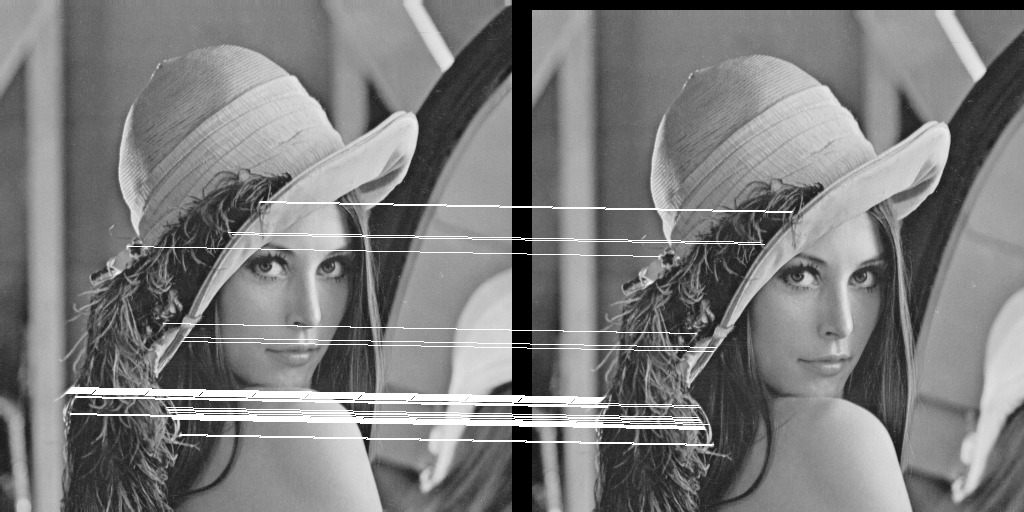
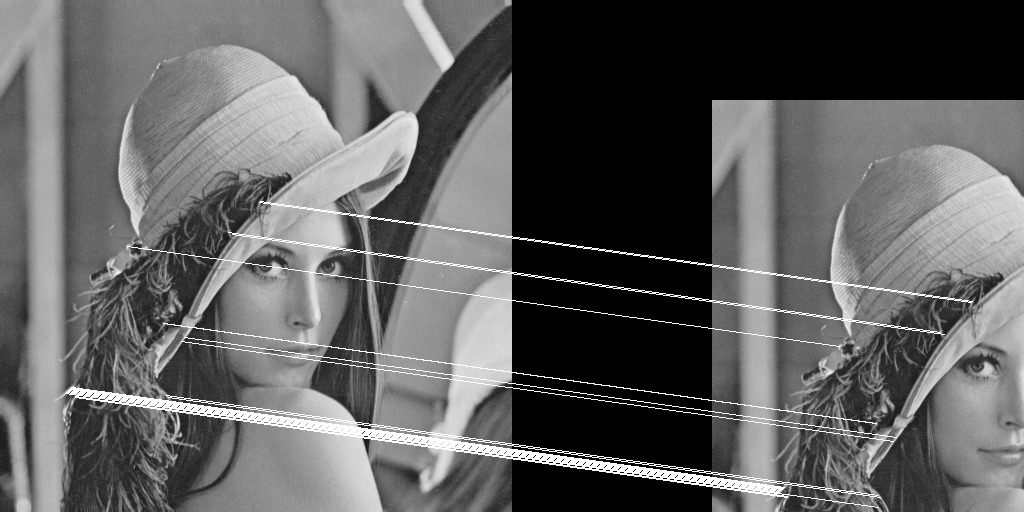
build based on 6f6cb39

diff --git a/latest/function_reference/index.html b/latest/function_reference/index.html
@@ -356,14 +356,14 @@
 </code></pre>
 
 <p>The <code>Keypoint</code> type.</p>
-<p><a target='_blank' href='https://github.com/JuliaImages/ImageFeatures.jl/tree/ef86fc974dd8655bf205d699489c966c3fb40817/src/core.jl#L4-L10' class='documenter-source'>source</a><br></p>
+<p><a target='_blank' href='https://github.com/JuliaImages/ImageFeatures.jl/tree/6f6cb39d8f4dfcb00be1138cbbf96417dc1bd169/src/core.jl#L4-L10' class='documenter-source'>source</a><br></p>
 <p><a id='ImageFeatures.Keypoints' href='#ImageFeatures.Keypoints'>#</a>
 <strong><code>ImageFeatures.Keypoints</code></strong> &mdash; <em>Type</em>.</p>
 <pre><code>keypoints = Keypoints(boolean_img)
 </code></pre>
 
 <p>Creates a <code>Vector{Keypoint}</code> of the true values in the <code>boolean_img</code>.</p>
-<p><a target='_blank' href='https://github.com/JuliaImages/ImageFeatures.jl/tree/ef86fc974dd8655bf205d699489c966c3fb40817/src/core.jl#L13-L19' class='documenter-source'>source</a><br></p>
+<p><a target='_blank' href='https://github.com/JuliaImages/ImageFeatures.jl/tree/6f6cb39d8f4dfcb00be1138cbbf96417dc1bd169/src/core.jl#L13-L19' class='documenter-source'>source</a><br></p>
 <p><a id='ImageFeatures.BRIEF' href='#ImageFeatures.BRIEF'>#</a>
 <strong><code>ImageFeatures.BRIEF</code></strong> &mdash; <em>Type</em>.</p>
 <pre><code>brief_params = BRIEF([size = 128], [window = 9], [sigma = 2 ^ 0.5], [sampling_type = gaussian], [seed = 123])
@@ -405,7 +405,7 @@
 </tr>
 </tbody>
 </table>
-<p><a target='_blank' href='https://github.com/JuliaImages/ImageFeatures.jl/tree/ef86fc974dd8655bf205d699489c966c3fb40817/src/brief.jl#L1-L14' class='documenter-source'>source</a><br></p>
+<p><a target='_blank' href='https://github.com/JuliaImages/ImageFeatures.jl/tree/6f6cb39d8f4dfcb00be1138cbbf96417dc1bd169/src/brief.jl#L1-L14' class='documenter-source'>source</a><br></p>
 <p><a id='ImageFeatures.ORB' href='#ImageFeatures.ORB'>#</a>
 <strong><code>ImageFeatures.ORB</code></strong> &mdash; <em>Type</em>.</p>
 <pre><code>orb_params = ORB([num_keypoints = 500], [n_fast = 12], [threshold = 0.25], [harris_factor = 0.04], [downsample = 1.3], [levels = 8], [sigma = 1.2])
@@ -457,7 +457,7 @@
 </tr>
 </tbody>
 </table>
-<p><a target='_blank' href='https://github.com/JuliaImages/ImageFeatures.jl/tree/ef86fc974dd8655bf205d699489c966c3fb40817/src/orb.jl#L1-L15' class='documenter-source'>source</a><br></p>
+<p><a target='_blank' href='https://github.com/JuliaImages/ImageFeatures.jl/tree/6f6cb39d8f4dfcb00be1138cbbf96417dc1bd169/src/orb.jl#L1-L15' class='documenter-source'>source</a><br></p>
 <p><a id='ImageFeatures.FREAK' href='#ImageFeatures.FREAK'>#</a>
 <strong><code>ImageFeatures.FREAK</code></strong> &mdash; <em>Type</em>.</p>
 <pre><code>freak_params = FREAK([pattern_scale = 22.0])
@@ -479,7 +479,7 @@
 </tr>
 </tbody>
 </table>
-<p><a target='_blank' href='https://github.com/JuliaImages/ImageFeatures.jl/tree/ef86fc974dd8655bf205d699489c966c3fb40817/src/freak.jl#L1-L9' class='documenter-source'>source</a><br></p>
+<p><a target='_blank' href='https://github.com/JuliaImages/ImageFeatures.jl/tree/6f6cb39d8f4dfcb00be1138cbbf96417dc1bd169/src/freak.jl#L1-L9' class='documenter-source'>source</a><br></p>
 <p><a id='Corners-1'></a></p>
 <h2 id="corners">Corners</h2>
 <p><a id='ImageFeatures.corner_orientations' href='#ImageFeatures.corner_orientations'>#</a>
@@ -494,7 +494,7 @@ orientations = corner_orientations(img, corners, kernel)
 </code></pre>
 
 <p>The kernel used for the patch can be given through the <code>kernel</code> argument. The default kernel used is a gaussian kernel of size <code>5x5</code>.</p>
-<p><a target='_blank' href='https://github.com/JuliaImages/ImageFeatures.jl/tree/ef86fc974dd8655bf205d699489c966c3fb40817/src/corner.jl#L1-L15' class='documenter-source'>source</a><br></p>
+<p><a target='_blank' href='https://github.com/JuliaImages/ImageFeatures.jl/tree/6f6cb39d8f4dfcb00be1138cbbf96417dc1bd169/src/corner.jl#L1-L15' class='documenter-source'>source</a><br></p>
 <p><a id='BRIEF-Sampling-Patterns-1'></a></p>
 <h2 id="brief-sampling-patterns">BRIEF Sampling Patterns</h2>
 <p><a id='ImageFeatures.random_uniform' href='#ImageFeatures.random_uniform'>#</a>
@@ -503,35 +503,35 @@ orientations = corner_orientations(img, corners, kernel)
 </code></pre>
 
 <p>Builds sampling pairs using random uniform sampling.</p>
-<p><a target='_blank' href='https://github.com/JuliaImages/ImageFeatures.jl/tree/ef86fc974dd8655bf205d699489c966c3fb40817/src/brief.jl#L27-L33' class='documenter-source'>source</a><br></p>
+<p><a target='_blank' href='https://github.com/JuliaImages/ImageFeatures.jl/tree/6f6cb39d8f4dfcb00be1138cbbf96417dc1bd169/src/brief.jl#L27-L33' class='documenter-source'>source</a><br></p>
 <p><a id='ImageFeatures.random_coarse' href='#ImageFeatures.random_coarse'>#</a>
 <strong><code>ImageFeatures.random_coarse</code></strong> &mdash; <em>Function</em>.</p>
 <pre><code>sample_one, sample_two = random_coarse(size, window, seed)
 </code></pre>
 
 <p>Builds sampling pairs using random sampling over a coarse grid.</p>
-<p><a target='_blank' href='https://github.com/JuliaImages/ImageFeatures.jl/tree/ef86fc974dd8655bf205d699489c966c3fb40817/src/brief.jl#L54-L60' class='documenter-source'>source</a><br></p>
+<p><a target='_blank' href='https://github.com/JuliaImages/ImageFeatures.jl/tree/6f6cb39d8f4dfcb00be1138cbbf96417dc1bd169/src/brief.jl#L54-L60' class='documenter-source'>source</a><br></p>
 <p><a id='ImageFeatures.gaussian' href='#ImageFeatures.gaussian'>#</a>
 <strong><code>ImageFeatures.gaussian</code></strong> &mdash; <em>Function</em>.</p>
 <pre><code>sample_one, sample_two = gaussian(size, window, seed)
 </code></pre>
 
 <p>Builds sampling pairs using gaussian sampling.</p>
-<p><a target='_blank' href='https://github.com/JuliaImages/ImageFeatures.jl/tree/ef86fc974dd8655bf205d699489c966c3fb40817/src/brief.jl#L73-L79' class='documenter-source'>source</a><br></p>
+<p><a target='_blank' href='https://github.com/JuliaImages/ImageFeatures.jl/tree/6f6cb39d8f4dfcb00be1138cbbf96417dc1bd169/src/brief.jl#L73-L79' class='documenter-source'>source</a><br></p>
 <p><a id='ImageFeatures.gaussian_local' href='#ImageFeatures.gaussian_local'>#</a>
 <strong><code>ImageFeatures.gaussian_local</code></strong> &mdash; <em>Function</em>.</p>
 <pre><code>sample_one, sample_two = gaussian_local(size, window, seed)
 </code></pre>
 
 <p>Pairs <code>(Xi, Yi)</code> are randomly sampled using a Gaussian distribution where first <code>X</code> is sampled with a standard deviation of <code>0.04*S^2</code> and  then the <code>Yi’s</code> are sampled using a Gaussian distribution – Each <code>Yi</code> is sampled with mean <code>Xi</code> and standard deviation of <code>0.01 * S^2</code></p>
-<p><a target='_blank' href='https://github.com/JuliaImages/ImageFeatures.jl/tree/ef86fc974dd8655bf205d699489c966c3fb40817/src/brief.jl#L99-L106' class='documenter-source'>source</a><br></p>
+<p><a target='_blank' href='https://github.com/JuliaImages/ImageFeatures.jl/tree/6f6cb39d8f4dfcb00be1138cbbf96417dc1bd169/src/brief.jl#L99-L106' class='documenter-source'>source</a><br></p>
 <p><a id='ImageFeatures.centered' href='#ImageFeatures.centered'>#</a>
 <strong><code>ImageFeatures.centered</code></strong> &mdash; <em>Function</em>.</p>
 <pre><code>sample_one, sample_two = centered(size, window, seed)
 </code></pre>
 
 <p>Builds sampling pairs <code>(Xi, Yi)</code> where <code>Xi</code> is <code>(0, 0)</code> and <code>Yi</code> is sampled uniformly from the window.</p>
-<p><a target='_blank' href='https://github.com/JuliaImages/ImageFeatures.jl/tree/ef86fc974dd8655bf205d699489c966c3fb40817/src/brief.jl#L128-L134' class='documenter-source'>source</a><br></p>
+<p><a target='_blank' href='https://github.com/JuliaImages/ImageFeatures.jl/tree/6f6cb39d8f4dfcb00be1138cbbf96417dc1bd169/src/brief.jl#L128-L134' class='documenter-source'>source</a><br></p>
 <p><a id='Feature-Extraction-1'></a></p>
 <h2 id="feature-extraction">Feature Extraction</h2>
 <p><a id='Feature-Description-1'></a></p>
@@ -547,14 +547,14 @@ orientations = corner_orientations(img, corners, kernel)
 </code></pre>
 
 <p>Calculates the hamming distance between two descriptors.</p>
-<p><a target='_blank' href='https://github.com/JuliaImages/ImageFeatures.jl/tree/ef86fc974dd8655bf205d699489c966c3fb40817/src/core.jl#L27-L33' class='documenter-source'>source</a><br></p>
+<p><a target='_blank' href='https://github.com/JuliaImages/ImageFeatures.jl/tree/6f6cb39d8f4dfcb00be1138cbbf96417dc1bd169/src/core.jl#L27-L33' class='documenter-source'>source</a><br></p>
 <p><a id='ImageFeatures.match_keypoints' href='#ImageFeatures.match_keypoints'>#</a>
 <strong><code>ImageFeatures.match_keypoints</code></strong> &mdash; <em>Function</em>.</p>
 <pre><code>matches = match_keypoints(keypoints_1, keypoints_2, desc_1, desc_2, threshold = 0.1)
 </code></pre>
 
 <p>Finds matched keypoints using the <a href="./#ImageFeatures.hamming_distance"><code>hamming_distance</code></a> function having distance value less than <code>threshold</code>.</p>
-<p><a target='_blank' href='https://github.com/JuliaImages/ImageFeatures.jl/tree/ef86fc974dd8655bf205d699489c966c3fb40817/src/core.jl#L36-L42' class='documenter-source'>source</a><br></p>
+<p><a target='_blank' href='https://github.com/JuliaImages/ImageFeatures.jl/tree/6f6cb39d8f4dfcb00be1138cbbf96417dc1bd169/src/core.jl#L36-L42' class='documenter-source'>source</a><br></p>
 <p><a id='Texture-Matching-1'></a></p>
 <h1 id="texture-matching">Texture Matching</h1>
 <p><a id='Gray-Level-Co-occurence-Matrix-1'></a></p>

diff --git a/latest/tutorials/brief/index.html b/latest/tutorials/brief/index.html
@@ -333,7 +333,7 @@
 <p>BRIEF is a very simple feature descriptor and does not provide scale or rotation invariance (only translation invariance). To achieve those, see <a href="../orb">ORB</a>, <a href="../brisk">BRISK</a> and <a href="../freak">FREAK</a>.</p>
 <p><a id='Example-1'></a></p>
 <h2 id="example">Example</h2>
-<p>Let us take a look at a simple example where the BRIEF descriptor is used to match two images where one has been translated by <code>(10, 20)</code> pixels. We will use the <code>lena_gray</code> image from the <a href="https://github.com/timholy/TestImages.jl">TestImages</a> package for this example.</p>
+<p>Let us take a look at a simple example where the BRIEF descriptor is used to match two images where one has been translated by <code>(100, 200)</code> pixels. We will use the <code>lena_gray</code> image from the <a href="https://github.com/timholy/TestImages.jl">TestImages</a> package for this example.</p>
 <p>First, let us define a warping function to transform the image.</p>
 <pre><code class="julia">function _warp(img, transx, transy)
     res = zeros(eltype(img), size(img))
@@ -352,7 +352,7 @@ end
 
 img = testimage(&quot;lena_gray_512&quot;)
 img_array_1 = convert(Array{Images.Gray}, img)
-img_array_2 = _warp(img_array_1, 10, 20)
+img_array_2 = _warp(img_array_1, 100, 200)
 </code></pre>
 
 <p>To calculate the descriptors, we first need to get the keypoints. For this tutorial, we will use the FAST corners to generate keypoints (see <a href="../@ref"><code>fastcorners</code></a>.</p>
